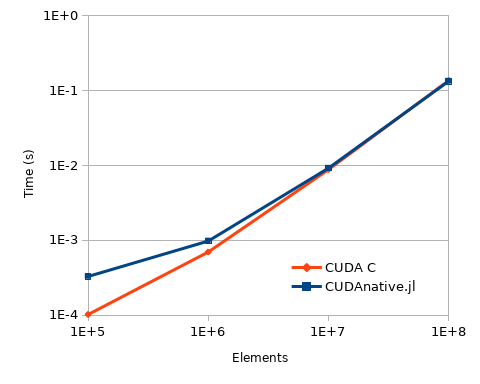
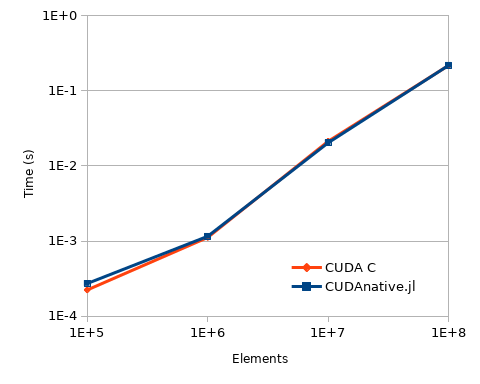
Update performance image.
Much of the constant overhead has been removed.

diff --git a/blog/_posts/2017-01-24-cudanative.md b/blog/_posts/2017-01-24-cudanative.md
@@ -208,9 +208,9 @@ the argument types.
 
 So how does it perform? Turns out, pretty good! The chart below compares the performance of
 both the CUDAnative.jl and CUDA C implementations[^2], using BenchmarkTools.jl to [measure
-the execution time]({{page.cudanative_tree}}/examples/reduce/benchmark.jl). The constant
-overhead (note the logarithmic scale) is due to a deficiency in argument passing, and will
-be resolved in the future.
+the execution time]({{page.cudanative_tree}}/examples/reduce/benchmark.jl). The small
+constant overhead (note the logarithmic scale) is due to a deficiency in argument passing,
+and will be fixed.
 
 ![Performance comparison of parallel reduction
 implementations.](/images/blog/2017-01-24-cudanative/performance.png)
